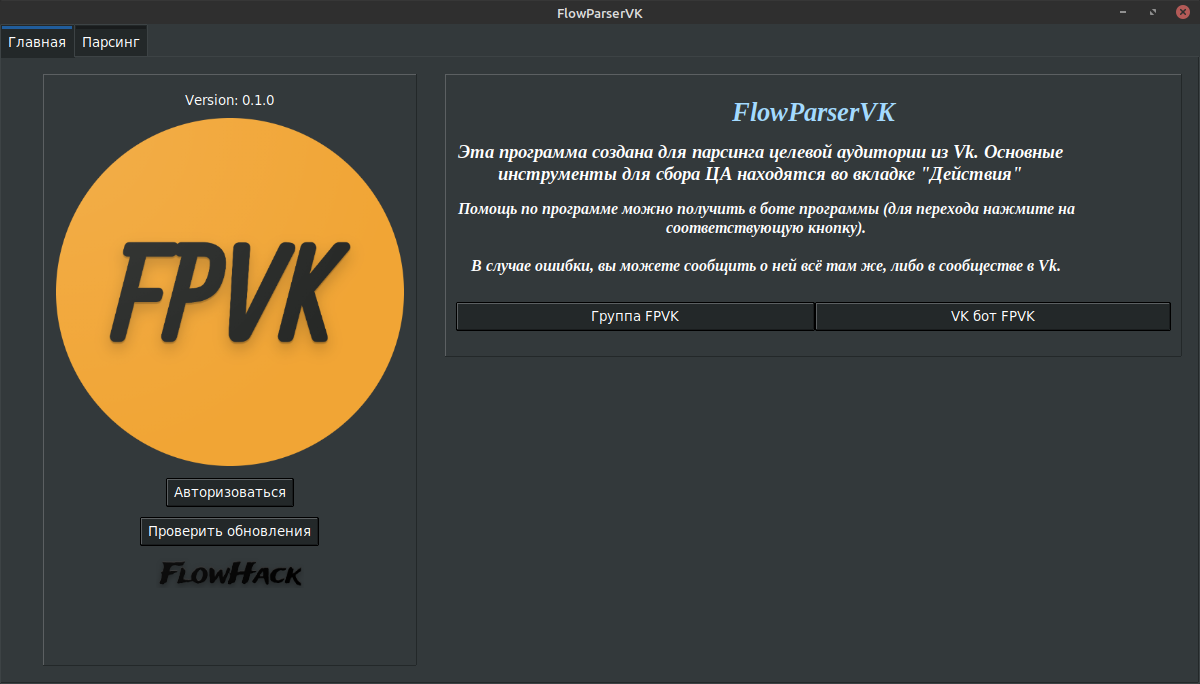
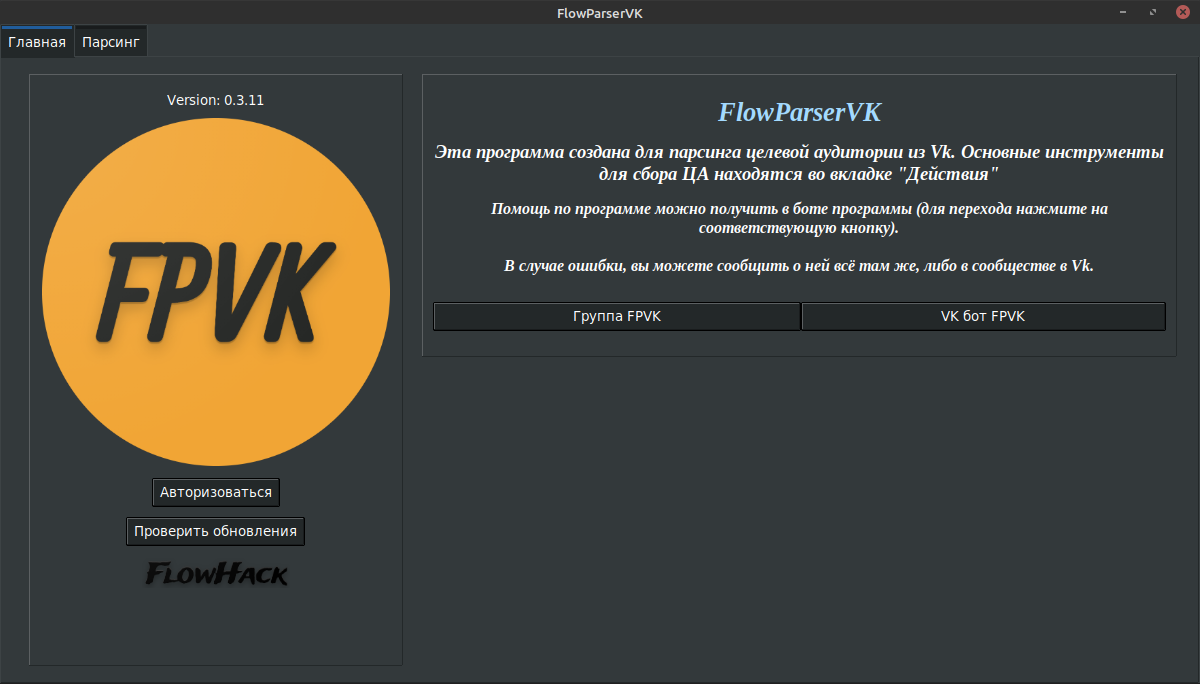
Изменение картинок к актуальному виду

diff --git a/handler.py b/handler.py
@@ -78,7 +78,7 @@ class Handler:
             keyboard = create_keyboard.inline_help()
             self.__send_message__(
                 MESSAGES['help'], keyboard=keyboard,
-                attachment=self.upload_photo('FPVK_preview.gif')
+                attachment=self.upload_photo('FPVK_preview.png')
             )
         elif self.__similarity__('главная', text):
             keyboard = create_keyboard.inline_help_main()
